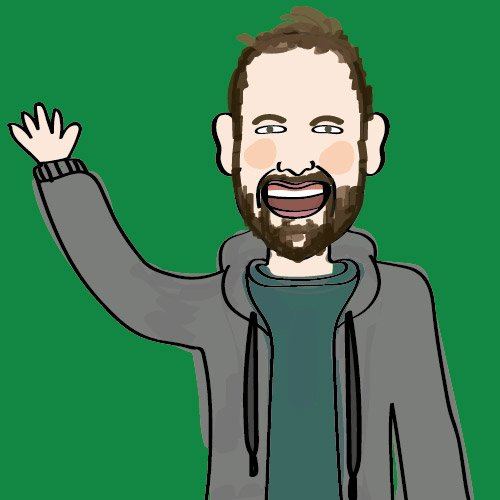
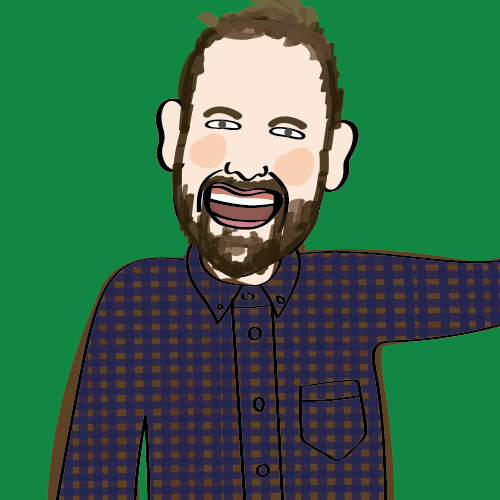
Update portraits

diff --git a/index.html b/index.html
@@ -76,7 +76,7 @@
               <div class="TeamMember js-TeamMember TeamMember--ed">
                 <div class="TeamMember-images">
                   <img class="TeamMember-photo" src="./images/team/team-ed-photo.jpg" alt="Photo of Ed">
-                  <img class="TeamMember-portrait" src="./images/team/team-ed-portrait.jpg" alt="Shit portrait of Ed">
+                  <img class="TeamMember-portrait" src="./images/team/team-ed-portrait.jpg?v=2" alt="Shit portrait of Ed">
                 </div>
                 <div class="TeamMember-detail">
                   <div class="TeamMember-bio">
@@ -114,7 +114,7 @@
               <div class="TeamMember js-TeamMember TeamMember--fran">
                 <div class="TeamMember-images">
                   <img class="TeamMember-photo" src="./images/team/team-fran-photo.jpg?v=2" alt="Photo of Fran">
-                  <img class="TeamMember-portrait" src="./images/team/team-fran-portrait.jpg" alt="Shit portrait of Fran">
+                  <img class="TeamMember-portrait" src="./images/team/team-fran-portrait.jpg?v=2" alt="Shit portrait of Fran">
                 </div>
                 <div class="TeamMember-detail">
                   <div class="TeamMember-bio">
@@ -243,7 +243,7 @@
               <div class="TeamMember js-TeamMember TeamMember--james">
                 <div class="TeamMember-images">
                   <img class="TeamMember-photo" src="./images/team/team-james-photo.jpg?v=2" alt="Photo of James">
-                  <img class="TeamMember-portrait" src="./images/team/team-james-portrait.jpg" alt="Shit portrait of James">
+                  <img class="TeamMember-portrait" src="./images/team/team-james-portrait.jpg?v=2" alt="Shit portrait of James">
                 </div>
                 <div class="TeamMember-detail">
                   <div class="TeamMember-bio">
